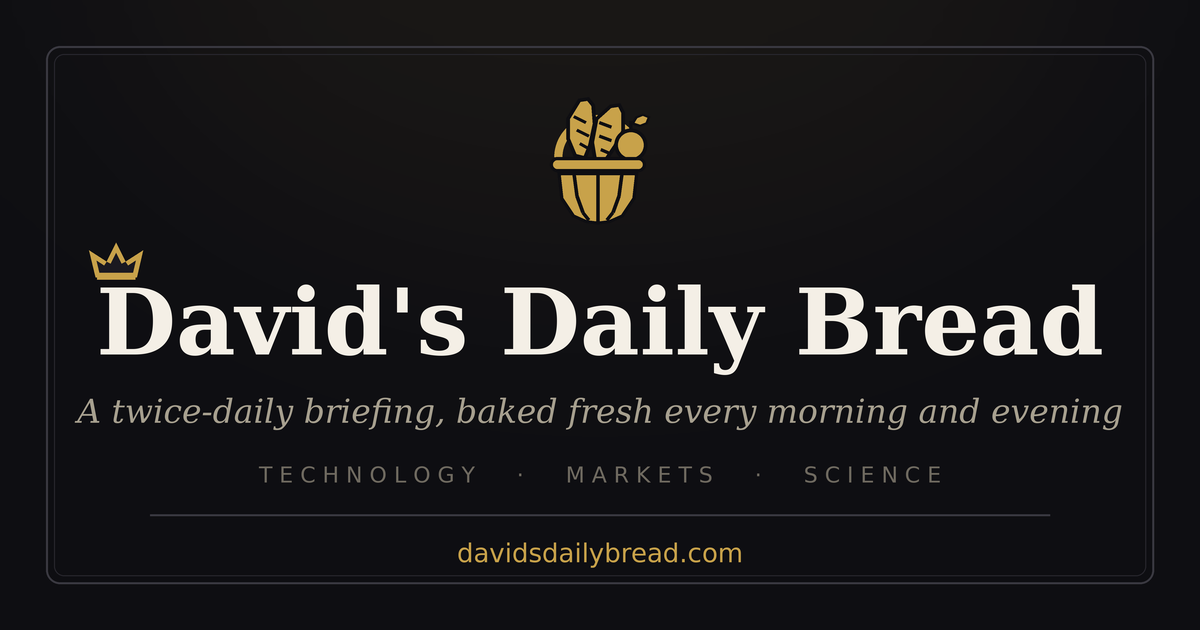
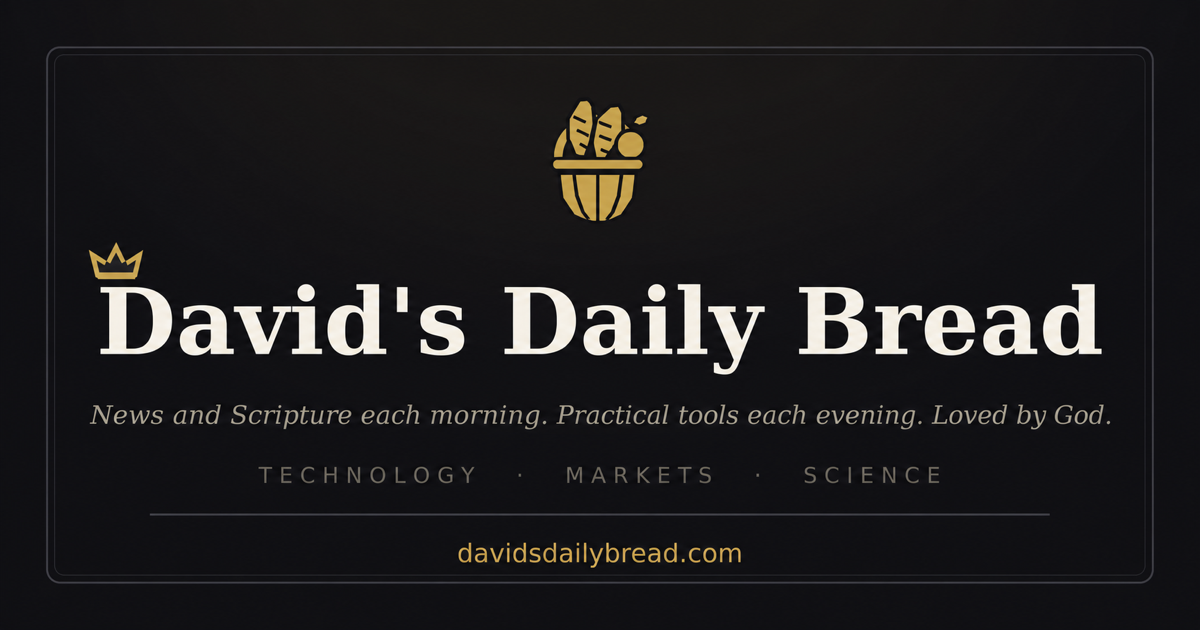
Refresh social brand assets

diff --git a/BRAND.md b/BRAND.md
@@ -73,7 +73,8 @@ mission, ownership, strategic direction, and paused initiatives.
 
 > Note (2026-07-09): `#c8a24a` gold / `#0e0e12` bg is the canonical palette (the live
 > site's). The older `#d2a53f` / `#121116` / Georgia-serif palette from early drafts
-> and the og-card is deprecated for interfaces — the og-card image itself stays as-is.
+> and the og-card is deprecated for interfaces. The og-card remains a social-only
+> asset and uses the current public subtitle defined below.
 
 ## Typography
 
@@ -113,7 +114,12 @@ mission, ownership, strategic direction, and paused initiatives.
   crown, and wordmark, and renders the approved live subtitle beneath them. The
   original image file remains untouched.
 - **`/og-card.png`** (1200×630) is the social/share card (`og:image`). Web pages use
-  header-art; social previews use og-card. Never substitute other art.
+  header-art; social previews use og-card. Its exact subtitle is **News and Scripture
+  each morning. Practical tools each evening. Loved by God.** Never substitute other
+  art.
+- **`/x-banner.png`** (1500×500) is the official X profile banner. It carries the
+  same exact subtitle as `og-card.png` and preserves the masthead mark, wordmark,
+  palette, and typographic hierarchy.
 
 ## Voice
 
